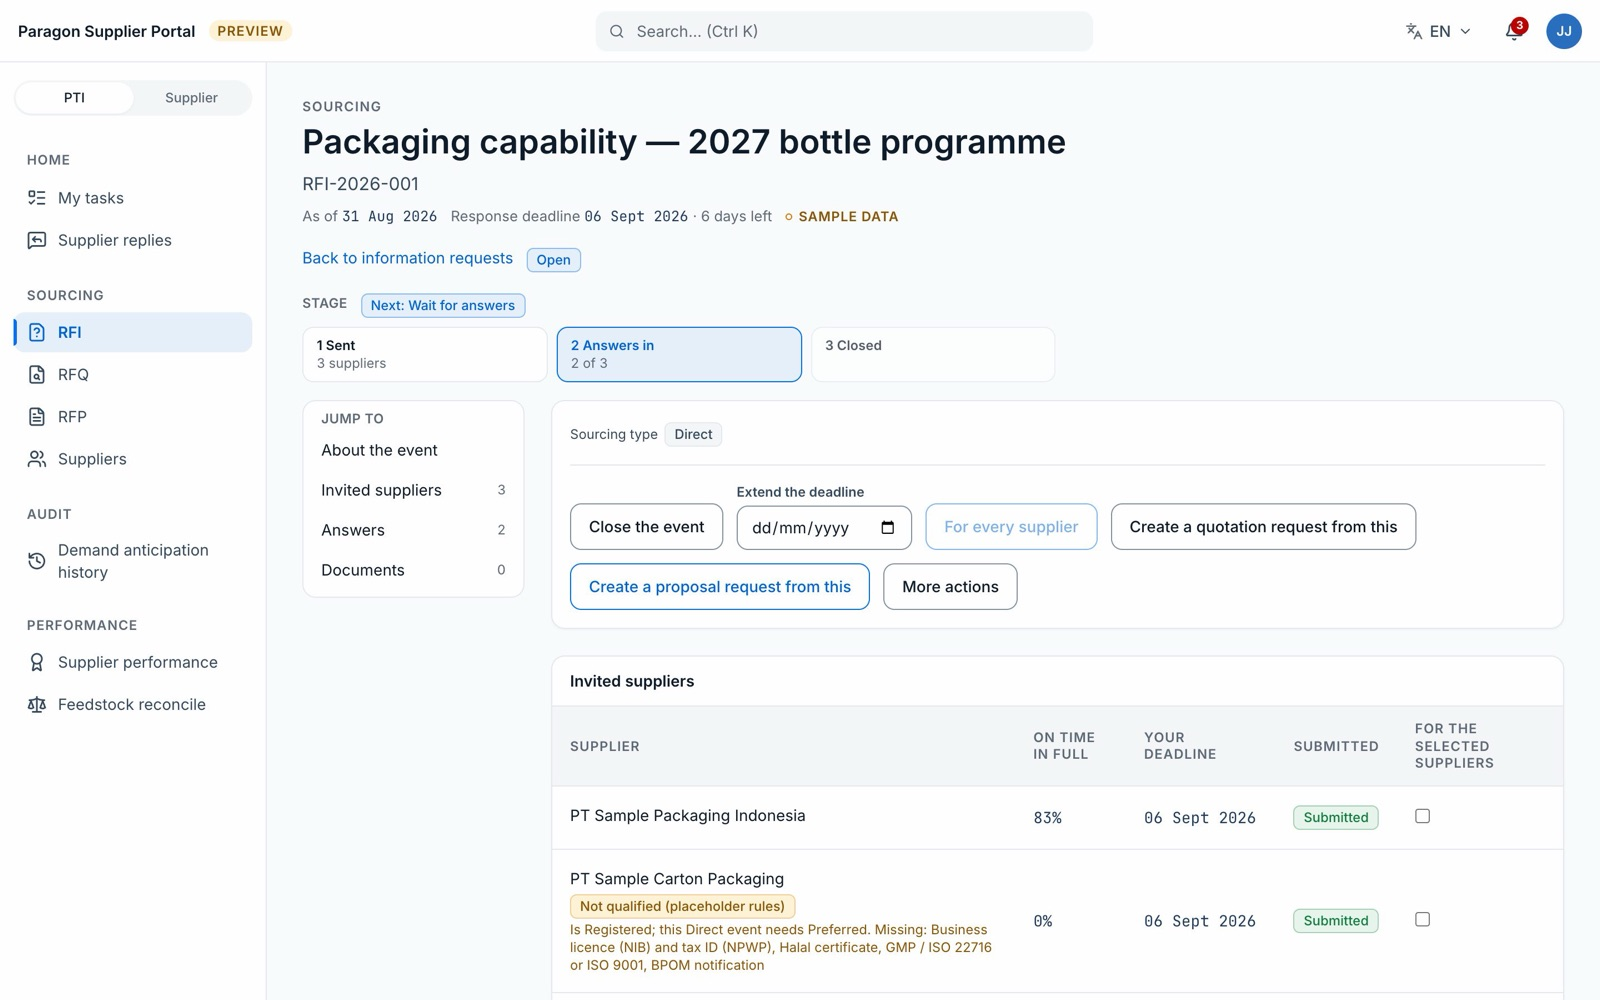
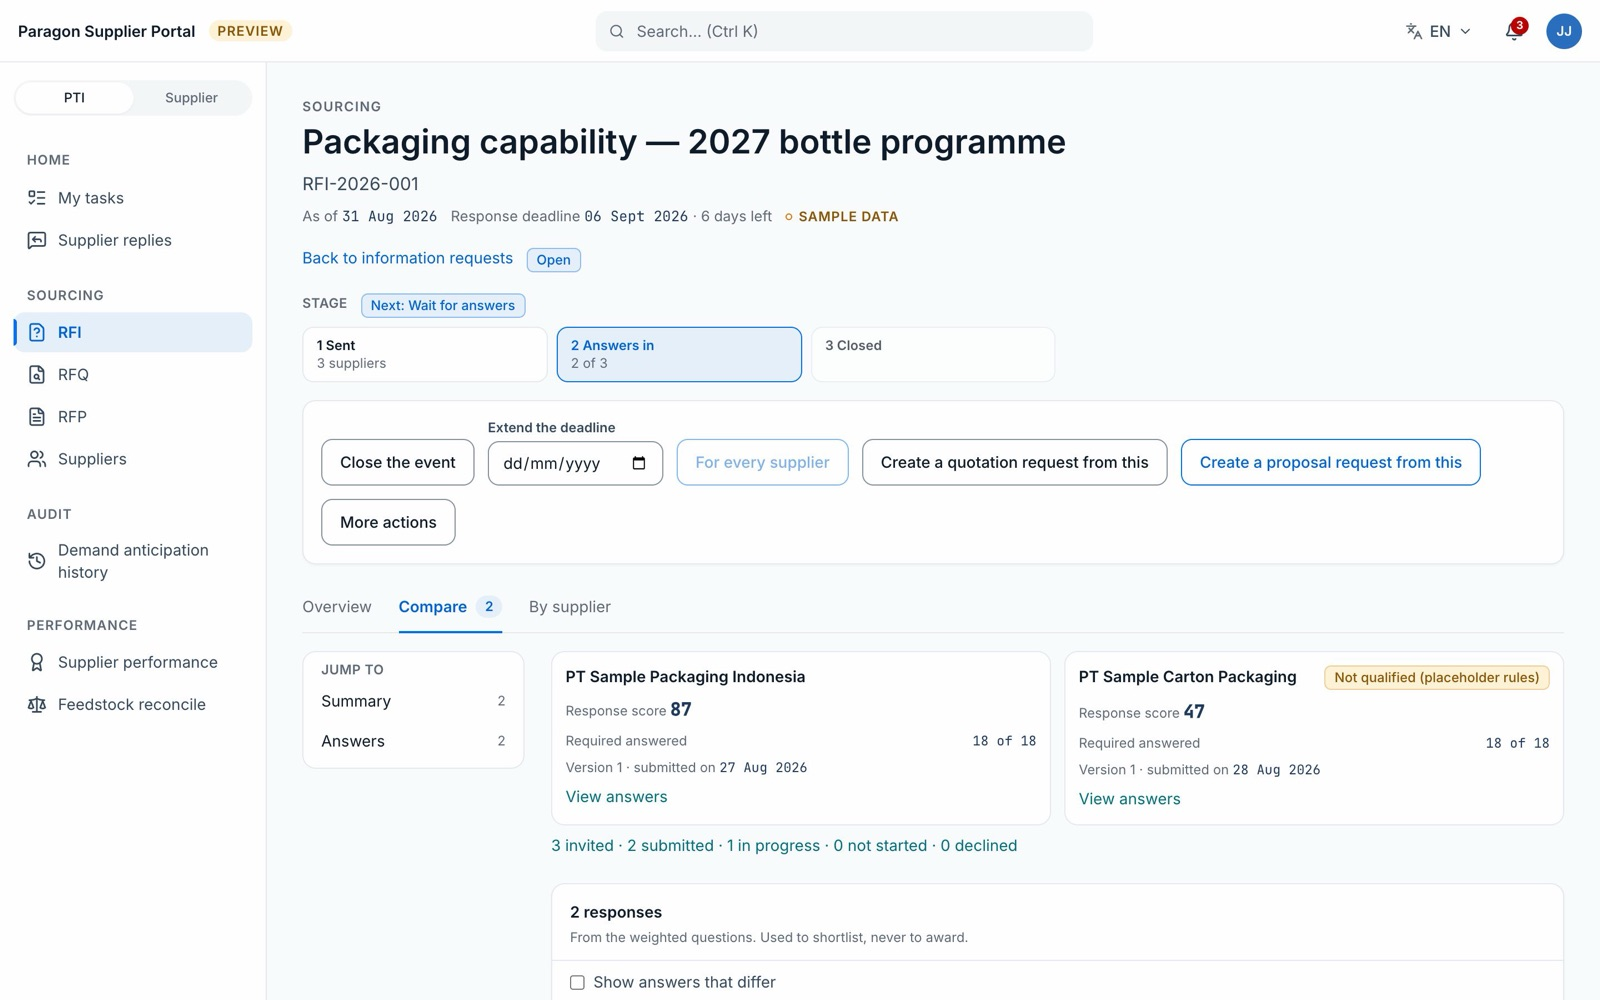
docs(rfx): RFX-D25 proposal view; floor to 10069 tests / 638 files, lint ceiling 671
Decision RFX-D25, X-88 in the build gap, BL-221 in the backlog, the
handover's screens and decisions, and the screenshots that changed.

diff --git a/docs/supplier-hub/RFX-ENGINEERING-HANDOVER-2026-10.md b/docs/supplier-hub/RFX-ENGINEERING-HANDOVER-2026-10.md
@@ -2,7 +2,7 @@
 
 | | |
 |---|---|
-| Version | 1.0, 2026-10-19 |
+| Version | 1.1, 2026-10-20 (RFX-D25 proposal view) |
 | For | The engineering team that builds the production RFx module (RFI, RFQ, RFP) of the PTI Supplier Hub |
 | What this is | The final requirement for RFx: what the prototype does, the decisions behind it, the rules, the states, the refusals, the screens, and what production must add. It replaces reading the RFx history document by document |
 | Built on | The prototype on branch `feat/rfx-ux-wave2` (GitLab MRs !8 and the wave 2 MR), which holds every RFx change to 2026-10-19 |
@@ -57,6 +57,7 @@ Every decision below is binding unless the owner changes it. Full text: `DECISIO
 | RFX-D22 | No win rate in the supplier's award history; one row per event from the award record |
 | RFX-D23 | One name per module, acronym first ("RFQ · Quotation requests"); Indonesian section header "Pengadaan" |
 | RFX-D24 | The RFQ side panel is a summary; review, exchange rate and clarifications live on the RFQ event page |
+| RFX-D25 | The RFI and RFP pages have Overview, Compare and By supplier tabs; Compare opens once a proposal is in, with summary cards, deviations-only, a neutral "Best" tag and a sticky supplier header |
 
 **Calls made during the 2026-10-19 build that wait for owner review** are in section 12. Each is built as recommended there.
 
@@ -90,16 +91,18 @@ Screenshots of every screen below, taken on the final build: `user-guide/screens
 
 | Route | Screen | What it does |
 |---|---|---|
-| `/buyer/rfi` | RFI list | Rows with number, deadline, template, responses; row button "Open"; "New information request" opens the wizard |
+| `/buyer/rfi` | RFI list | Rows with number, deadline, template and "N of M submitted"; row button "Open"; "New information request" opens the wizard |
 | `/buyer/rfi/:rfiId` | RFI event page | Header with status and days left, stage bar (Sent · Answers in · Closed), section nav with counts, one actions row (Edit, Send, Discard, Close, Extend, Create RFQ, Create RFP, More → Save as a template), "Invited suppliers" with each supplier's intent and response state, answers side by side, supplier documents |
 | `/buyer/rfq` | RFQ board | Opens on "Needs my action", ordered by next deadline; tabs Needs my action · Open · Pending award · Draft · Awarded · Closed; KPI tiles filter the table; a Next column; "As of" date line; side panel as a summary with links to the event page |
 | `/buyer/rfq/:rfqId` | RFQ event page | Header with status, deadline, days left and the stage stated in words; stage bar (Sent · Quotes in · Round · Award · Raised in SAP · Done) with a Next pill; sticky section nav (Invitees, Clarifications, What is quoted, Comparison, Rounds, Documents, Award) with counts; comparison with "Move to review", exchange-rate banner and dialog, per-break tables folded under "Show every break"; negotiation rounds; award panel with a legend for its pills; award records with cancel and "Mark raised in SAP" |
-| `/buyer/rfp` | RFP list | Rows; "Compare proposals" only when at least one proposal exists |
+| `/buyer/rfp` | RFP list | Rows with "N of M submitted"; row button "Open" |
 | `/buyer/rfp/:rfpId` | RFP event page | As the RFI page, plus "Terms sent" before any proposal, the terms comparison, indicative pricing, "Firm up the prices" (firm-offer round or RFQ from this RFP), firm-offer rounds, RFP award |
 
 **Wizards** (modal, opened from the list page): RFI (Scope, Questions, Invitees, Documents, Review), RFQ (Scope, Items, Breaks, Questions and options, Suppliers, Terms, Documents, Review), RFP (as RFI plus Terms, Pricing). The RFQ wizard seeds the first break from the Scope quantity, defaults the unit by category (Packaging → PCS, others KG) and Incoterms to FOB, and offers "Save and send to suppliers" on Review. After saving, the RFI and RFP wizards open the new event's page.
 
 **Confirmation sheets.** Close (RFI, RFP), award and cancel-award (RFQ, RFP) open a sheet listing who is affected, the shares, the reason, and what can be undone. Nothing is dispatched until the buyer confirms ("Record the award" / "Catat pemenang"; "Back to edit" / "Kembali").
+
+**Proposal view on the RFI and RFP pages (RFX-D25).** Three tabs under the actions row, held in the URL (`?tab=overview|compare|supplier`, `&supplier=<id>`): Overview (scope, terms or questions sent, invitees, documents, firm-up, award), Compare (summary cards best scored first, one-line invitee count, the grid with "Show deviations only", collapsible groups, sticky supplier header and a neutral "Best" tag, indicative prices with the lowest per option and quantity tagged; for the RFI, section accordions and "Show answers that differ"), and By supplier (one proposal at a time with Previous/Next). Compare is the default once anything is submitted. "Best" comes from `bestValueIds` in `src/pages-v2/rfx/rfxCompare.js`: lowest price basis, shortest lead time, most payment days, longest price validity; other terms get none.
 
 ### 4.2 Supplier
 

diff --git a/docs/supplier-hub/DECISION-GUIDE.md b/docs/supplier-hub/DECISION-GUIDE.md
@@ -2,8 +2,8 @@
 
 | | |
 |---|---|
-| Version | 1.8, 2026-10-19 (RFx UX decisions RFX-D16 to RFX-D24 added) |
-| Covers | BL-01 to BL-19b in `BACKLOG.md` — the 21 decisions that block or confirm work; the RFx decisions RFX-D1 to RFX-D5 (2026-09-21) and RFX-D6 to RFX-D14 (2026-09-25) and RFX-D15 (2026-09-28) and the RFx UX decisions RFX-D16 to RFX-D24 (2026-10-19); the SC Hub Material decisions MAT-D1 to MAT-D15 and the build rulings MAT-D16 to MAT-D21 (2026-09-29); and the 15 forecast engine decisions ENG-D1 to ENG-D14 with ENG-D8a (2026-09-23) |
+| Version | 1.9, 2026-10-20 (RFX-D25 added: proposal view on the RFI and RFP pages) |
+| Covers | BL-01 to BL-19b in `BACKLOG.md` — the 21 decisions that block or confirm work; the RFx decisions RFX-D1 to RFX-D5 (2026-09-21) and RFX-D6 to RFX-D14 (2026-09-25) and RFX-D15 (2026-09-28) and the RFx UX decisions RFX-D16 to RFX-D24 (2026-10-19) and RFX-D25 (2026-10-20); the SC Hub Material decisions MAT-D1 to MAT-D15 and the build rulings MAT-D16 to MAT-D21 (2026-09-29); and the 15 forecast engine decisions ENG-D1 to ENG-D14 with ENG-D8a (2026-09-23) |
 | Purpose | Give the project owner a defensible recommendation to take to each owner: what the market does, what we suggest for PTI, and what would change our mind |
 | Status | **18 of the 21 were decided on 2026-09-21**, mostly as recommended; the outcomes are in section 9 of the requirements and in the Closed section of `BACKLOG.md`. Still open: BL-01 REPL, BL-11 interface technology, BL-12 call-off record, and three values (BL-54 invoice cap, BL-55 gate OTIF minimum, BL-56 early allowance). Where the owner decided differently from this guide — the hub keeps its own calendar (BL-14), capacity stays at 13 weekly buckets (BL-08), Web Tukar Faktur stays separate (BL-17), and TMS access becomes a 3PL tracking link (BL-03) — the decision stands and this guide is kept as the reasoning behind the others. All decided items are built and in production as of 2026-09-21 (BL-43 to BL-53). The builds raised six new questions, BL-66 to BL-71 in the backlog, which this guide does not yet cover |
 | Evidence | Market practice is cited at the end. Where a claim is a judgement rather than a published practice, it says so |
@@ -336,6 +336,11 @@ The owner ruled on the open questions of the RFx UX evaluation (`research/RFX-UX
 **Decision.** Move, then trim. Move to review, recording the exchange rate and answering clarifications move from the board's side panel to the RFQ event page, each with its own handoff notice; the panel keeps status, Next, deadline, response counts, three links, lifecycle actions, the award box (award notice, "no supplier can win" notice, award link), Save as template and the timeline. **Amends** the §76 reading of the panel as a workspace for these actions only. With no recorded exchange rate the event page keeps the bids visible with "—" scores under a banner naming each currency and the rate date; the award rule is unchanged.
 
 **What would change this.** If buyers review quotes mostly from the board, a "Review" link straight to the comparison section is the cheaper fix than moving the actions back.
+
+### RFX-D25 · Proposal view on the RFI and RFP pages (decided 2026-10-20)
+**Decision.** The RFI and RFP pages get three tabs: Overview, Compare and By supplier. Compare opens by default once a proposal or answer is submitted; Overview opens when none is. Compare starts with one summary card per supplier, best scored first, then the grid: "Show deviations only" (on by default when a deviation exists), collapsible term groups with their deviation counts, a sticky supplier header, and a neutral "Best" tag on comparable rows (lowest price, shortest lead time, most payment days, longest price validity) and on the lowest indicative price per option and quantity. By supplier shows one proposal at a time. The invitee table stays on Overview; Compare shows a one-line count. List rows have one "Open" button and read "N of M submitted". Display only: no score, rule or award changes. Built in lane 2G (wave 2 MR).
+
+**What would change this.** If buyers read "Best" as a recommendation to award, drop the tag and keep the deviations view.
 
 ---
 

diff --git a/docs/supplier-hub/BUILD-GAP.md b/docs/supplier-hub/BUILD-GAP.md
@@ -2,7 +2,7 @@
 
 | | |
 |---|---|
-| Version | 3.21, 2026-10-19 (RFx UX waves 1 and 2: X-76 to X-87 and the RFx rows) |
+| Version | 3.22, 2026-10-20 (X-88, proposal view) |
 | Compares | `SUPPLIER-HUB-REQUIREMENTS.md` v0.12 with the prototype on `main` at `80a4281` (PR #27 merged, 2026-09-22). The RFx rows cover PRs #21, #24, #25, #26 and #27; the RFP → RFQ pre-fill was built in PR #30. The RFx improvements (supplier documents, RFP award, multi-supplier award) were added on 2026-09-28 from PRs #54 to #64, #66 and #67, read on `main` at `20341d1`. The SC Hub Material build (MR-1 to MR-10: PRs #84 to #93, #97, #101 to #110, all merged 2026-09-29) was added on 2026-09-29, read on `main` at `d7ac421`; section 1.1 maps each MR to its rules and PRs. CAP-1 wave 1 (PR #191, merged 2026-10-12) was added on 2026-10-12, read on `main` at `a5eaac3`; section 1.2 covers CAP-1 to CAP-12. |
 | Owner decisions | 2026-09-17, recorded in section 9 of the requirements (RFX-1 to RFX-3, GAP-1 to GAP-4, E06-R); 2026-09-21 for the working calendar (Q-18, BL-14) and the commitment deadline (CR-26, BL-05), built as BL-50 and BL-48; 2026-09-21 for RFx (RFX-D1 to RFX-D5), built in PRs #21 and #24 to #27; 2026-09-25 for the RFx improvements (RFX-D6 to RFX-D14), built in PRs #54 to #64, #66 and #67. Also 2026-09-29 for the SC Hub Material build (MAT-D1 to MAT-D15, and the build rulings MAT-D16 to MAT-D21), built in PRs #84 to #93, #97 and #101 to #110 |
 | Gate evidence, RFx improvements | From 2026-09-25 08:13 UTC GitHub Actions could not run the gates: the `build · floor · test:gate` job was not started because of the account's billing limit, and the check reads as failed. That covers the final heads of PRs #54 to #56, #58 to #64, #67 and #69. The final heads of #57 and #66, which reached `main` inside #67, passed in Actions earlier on 2026-09-25. Each of these PRs reports a green local `npm run gates` run on Node 22 in its body, and the merges to `main` were gated on those runs; for the heads Actions did not run, that local run is the only gate record. The counts are held in `scripts/floor.json` and are not restated here |
@@ -230,6 +230,7 @@ The requirements are `SC-HUB-DA-ROP-CALLOFF-REQUIREMENTS-2026-10.md` (accepted 2
 | X-85 | RFx UX 2D: intent and decline on the RFI and RFP (S-13, BL-132) | Done (`feat/rfx-ux-2D`, wave 2 MR) |
 | X-86 | RFx UX 2E: follow-ups BL-212, BL-215 to BL-220, declined RFQ leaves the To do | Done (`feat/rfx-ux-2E`, wave 2 MR) |
 | X-87 | RFx UX 2F: fixes from the final preview review: RFP nav counts, no repeated header in the About card, side panel title, "Collapse" on supplier rows, one empty-cell placeholder | Done (`feat/rfx-ux-2F`, wave 2 MR) |
+| X-88 | RFx UX 2G: proposal view on the RFI and RFP pages, tabs Overview / Compare / By supplier, summary cards, deviations-only, "Best" tag, "Open" on list rows (RFX-D25) | Done (`feat/rfx-ux-2G`, wave 2 MR) |
 
 ### 2.1 Navigation and screens
 

diff --git a/docs/supplier-hub/user-guide/screens/rfx-2026-10/README.md b/docs/supplier-hub/user-guide/screens/rfx-2026-10/README.md
@@ -1,6 +1,6 @@
 # RFx screens, 2026-10-19
 
-Taken from the build on `feat/rfx-ux-wave2` (`fd90db66`) in the preview, demo date 31 Aug 2026, 1440 × 900, "Menu for: Buyer" on the PTI side and sup-007 on the supplier side. Used by `RFX-ENGINEERING-HANDOVER-2026-10.md` and section 4 of the URS & RNI form.
+Taken from the build on `feat/rfx-ux-wave2` (`fd90db66`; 12, 15, 16, 32 and 33 retaken on 2026-10-20 after RFX-D25) in the preview, demo date 31 Aug 2026, 1440 × 900, "Menu for: Buyer" on the PTI side and sup-007 on the supplier side. Used by `RFX-ENGINEERING-HANDOVER-2026-10.md` and section 4 of the URS & RNI form.
 
 | File | Shows |
 |---|---|
@@ -15,11 +15,11 @@ Taken from the build on `feat/rfx-ux-wave2` (`fd90db66`) in the preview, demo da
 | `09-buyer-rfq-fx-banner.jpg` | No exchange rate recorded: bids stay visible, not ranked, with "Record USD rate" |
 | `10-buyer-rfq-wizard.jpg` | RFQ wizard, Scope step |
 | `11-buyer-rfi-list.jpg` | RFI list with row button "Open" |
-| `12-buyer-rfi-event.jpg` | RFI event page with stage bar, nav and one actions row |
+| `12-buyer-rfi-event.jpg` | RFI page on the Compare tab: summary cards with response scores, one-line invitee count (RFX-D25) |
 | `13-buyer-rfi-invited-suppliers.jpg` | "Invited suppliers" with each supplier's state |
 | `14-buyer-rfi-close-sheet.jpg` | "Close the event" confirms on a sheet listing who is affected |
-| `15-buyer-rfp-list.jpg` | RFP list: "Compare proposals" only when a proposal exists |
-| `16-buyer-rfp-event.jpg` | RFP event page |
+| `15-buyer-rfp-list.jpg` | RFP list: one "Open" button and "N of M submitted" (RFX-D25) |
+| `16-buyer-rfp-event.jpg` | RFP page with no proposals: opens on the Overview tab |
 | `17-buyer-rfp-terms-sent.jpg` | "Terms sent" before any proposal; a declined supplier shows its reason |
 | `18-buyer-rfp-firm-up.jpg` | "Firm up the prices": firm-offer round or RFQ from this RFP, each with its rule |
 | `19-supplier-todo.jpg` | Supplier To do grouped by lane |
@@ -35,3 +35,5 @@ Taken from the build on `feat/rfx-ux-wave2` (`fd90db66`) in the preview, demo da
 | `29-supplier-rfp-draft-saved.jpg` | "Draft saved on this device at HH:MM" |
 | `30-supplier-rfp-sample-yes-no.jpg` | Sample as Yes/No, the timeline asked once, Send off with the count |
 | `31-supplier-rfi-decline-form.jpg` | Decline with a reason and own words |
+| `32-buyer-rfp-compare.jpg` | RFP Compare tab: summary cards best scored first, invitee count, "Show deviations only" (RFX-D25) |
+| `33-buyer-rfp-by-supplier.jpg` | RFP By supplier tab: one proposal at a time with Previous/Next (RFX-D25) |

diff --git a/docs/supplier-hub/BACKLOG.md b/docs/supplier-hub/BACKLOG.md
@@ -2,7 +2,7 @@
 
 | | |
 |---|---|
-| Version | 2.33, 2026-10-19 (RFx UX: BL-212 to BL-220 added; BL-132, BL-212, BL-215 to BL-220 closed) |
+| Version | 2.34, 2026-10-20 (BL-221 added) |
 | What this is | Everything known to be outstanding for the Supplier Hub, in one list: decisions waiting on people, work waiting on those decisions, work waiting on the backend, and work that can start today |
 | What this is not | A plan or a commitment. Nothing here has a date. Sequencing belongs to the project owner |
 | Sources | Open items (section 7 of `SUPPLIER-HUB-REQUIREMENTS.md`), open decisions (section 9.3 of `SUPPLIER-HUB-PRD.md`), what is not built (section 5 of `BUILD-GAP.md`), stubs (section 6 of the requirements), and defects or debts found while building |
@@ -165,6 +165,7 @@ Found while building the RFx UX evaluation (`research/RFX-UX-EVALUATION-2026-10.
 |---|---|---|---|---|---|
 | BL-213 | Read and unread state for the supplier bell; real counts on the PTI bell (it shows a fixed "3"); menu counts beyond RFI, RFQ and RFP | The supplier bell counts every award and withdrawal notice it has ever shown | S | Notification store (with BL-120) | Evaluation S-04 |
 | BL-214 | Response drafts kept on the server (the "Save draft" verb) and a "Discard draft" control | Autosave keeps the draft in this browser only, so it does not follow the supplier to another device; Cancel on the quote drawer keeps the draft with no way to drop it | M | Stage F backend | Evaluation S-01 |
+| BL-221 | Order the RFP and RFI Compare grid columns like the summary cards (best scored first) | The cards are ordered by score while the grid keeps the invitation order, so the same supplier sits in different positions | S | Nothing | RFX-D25 |
 
 ## 5. Other teams and later phases
 
